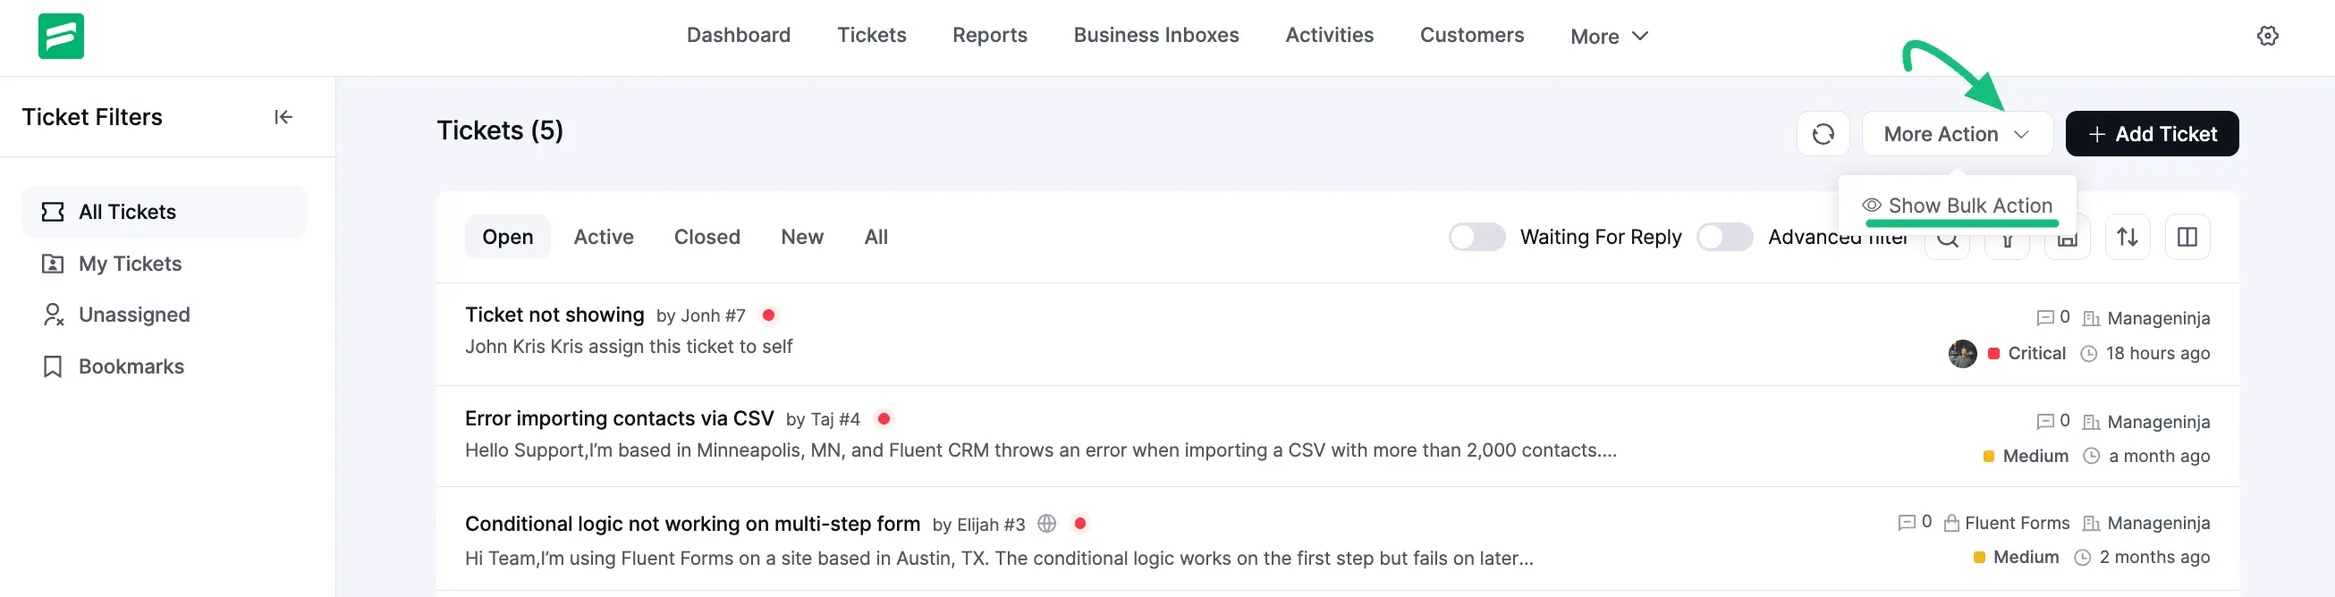
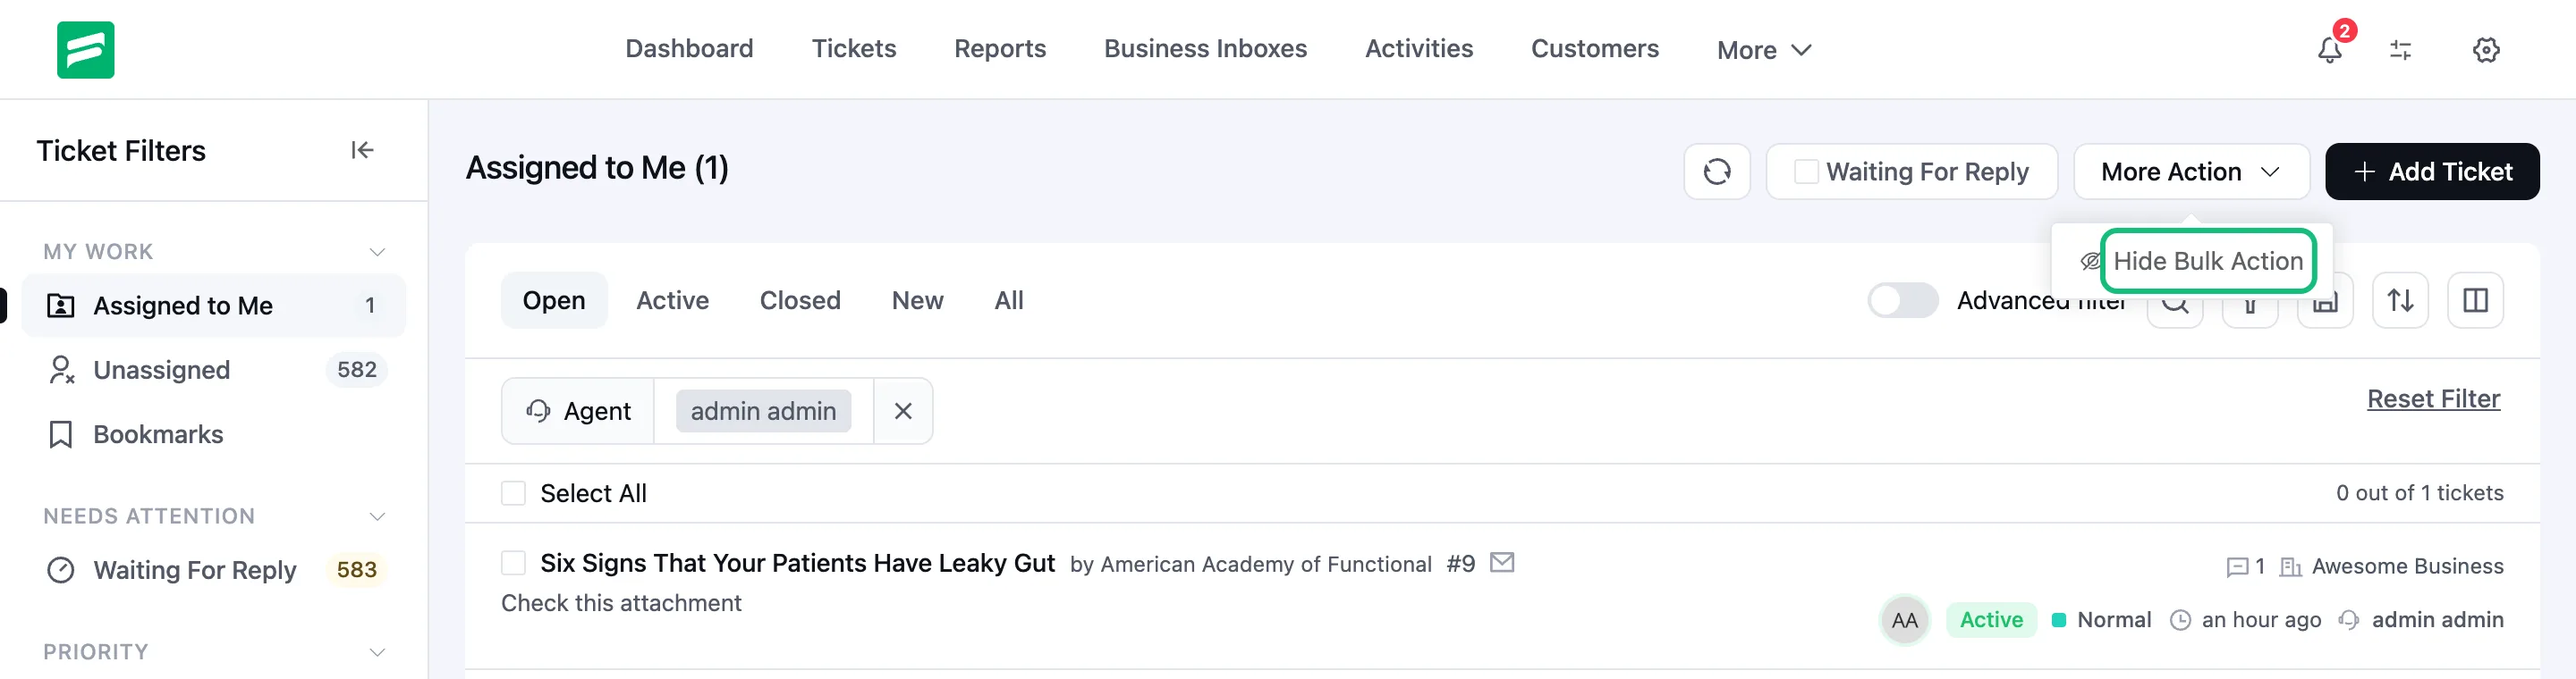
Document default bulk action visibility
Update the ticket bulk actions guide and screenshot to explain that bulk actions are shown by default and can be hidden or restored from the More Action menu.

diff --git a/docs/ticket-management/bulk-action-in-tickets.md b/docs/ticket-management/bulk-action-in-tickets.md
@@ -2,15 +2,17 @@
 
 Fluent Support lets you work on many tickets at once with **Bulk Actions**. You can reply to several tickets together, assign them to an agent, add or remove tags, close or reopen them, change their priority or product, and more. This article walks you through the whole process.
 
-## Turn On Bulk Actions
+## Show or Hide Bulk Actions
 
 First, go to **Tickets** from your **Fluent Support** dashboard.
 
 ![Tickets from Fluent Support dashboard](/images/ticket-management/productivity-tools/bulk-action-in-tickets/bulk-action-1.webp)
 
-Open the ticket list you want to work with, such as **Assigned to Me**, **Unassigned**, **Bookmarks**, or a status view such as **Open** or **All**. Then click the **More Action** button and choose **Show Bulk Action**. A checkbox now appears next to every ticket.
+Open the ticket list you want to work with, such as **Assigned to Me**, **Unassigned**, **Bookmarks**, or a status view such as **Open** or **All**. A checkbox appears next to every ticket, and a **Select All** checkbox sits at the top of the list. Bulk actions are turned on by default.
 
-![All ticket sections](/images/ticket-management/productivity-tools/bulk-action-in-tickets/bulk-action-2.webp)
+If you prefer a cleaner list, click the **More Action** button and choose **Hide Bulk Action**. The checkboxes disappear. To bring them back, open **More Action** again and choose **Show Bulk Action**. Fluent Support remembers your choice.
+
+![More Action menu with the Hide Bulk Action option](/images/ticket-management/productivity-tools/bulk-action-in-tickets/bulk-action-2.webp)
 
 ## Select Tickets
 
